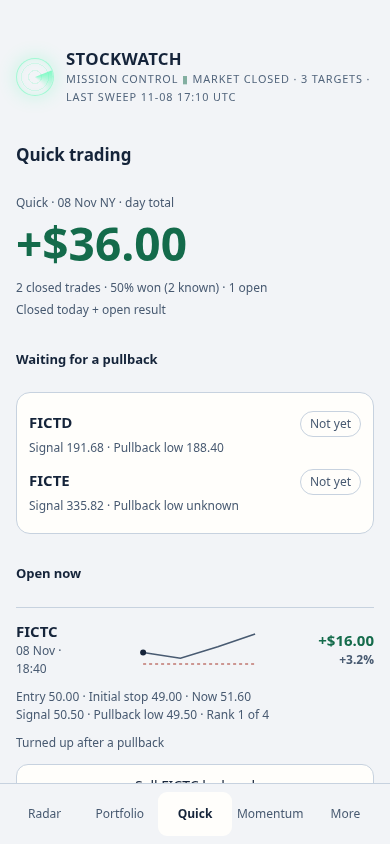
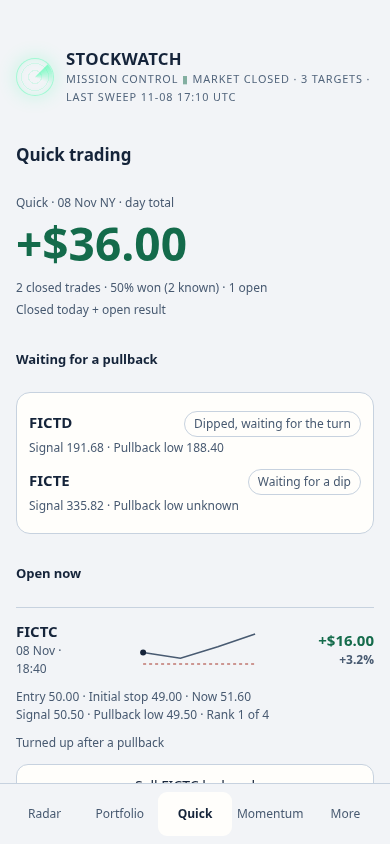
Describe actual saved pullback states on Quick watch pills

Changed region(s): [[0.4923, 0.4929, 0.8923, 0.5237], [0.6462, 0.5545, 0.8923, 0.5853], [0.0923, 0.0616, 0.1538, 0.1232]]

diff --git a/tests/test_tape_quick_momentum.py b/tests/test_tape_quick_momentum.py
@@ -50,12 +50,14 @@ def test_unknown_closed_result_or_date_and_no_measured_wins_remain_unknown():
     assert q.day_summary(quick.new_book(),{},NOW)['total']==0  # genuinely empty known account
 
 
-def test_pullback_low_does_not_invent_turning_confirmation_and_order_is_preserved():
+def test_saved_pullback_low_distinguishes_waiting_for_dip_from_waiting_for_turn():
     b=quick.new_book()
-    b['watch']={'FICTA':{'p0':100.,'pull_lo':98.},'FICTB':{'p0':20.,'pull_lo':None,'turning_up':True}}
+    b['watch']={'FICTA':{'p0':100.,'pull_lo':98.},'FICTB':{'p0':20.,'pull_lo':None}}
     h=q.html({'book':b},now=NOW)
     assert h.index('day total')<h.index('Waiting for a pullback')<h.index('Open now')<h.index('Closed</h3>')
-    assert 'Not yet' in h and 'Turning up' in h and 'Pullback low unknown' in h
+    assert 'Dipped, waiting for the turn' in h and 'Waiting for a dip' in h and 'Pullback low unknown' in h
+    assert h.index('FICTA')<h.index('Dipped, waiting for the turn')<h.index('FICTB')<h.index('Waiting for a dip')
+    assert 'Turning up' not in h and 'Not yet' not in h
     assert '<svg' not in h
 
 

diff --git a/stockwatch/quick_view.py b/stockwatch/quick_view.py
@@ -185,7 +185,8 @@ def parts(st: dict, prices: dict | None=None, now=None) -> tuple[str,list,str]:
     top+='<h3>Waiting for a pullback</h3><div class="tq-watch">'
     watch=book.get('watch') or {}
     for ticker,w in watch.items():
-        word='Turning up' if w.get('turning_up') is True else 'Not yet'
+        low=_num(w.get('pull_lo'))
+        word='Dipped, waiting for the turn' if low is not None and low>0 else 'Waiting for a dip'
         top+=(f'<div class="tq-w">{_link(ticker)}<span class="tq-pill">{word}</span>'
               f'<small>Signal {_price(w.get("p0"))} · Pullback low {_price(w.get("pull_lo"))}</small></div>')
     top+=('' if watch else '<small>No stocks waiting.</small>')+'</div><h3>Open now</h3></div>'

diff --git a/docs/screenshots/tape-quick/README.md b/docs/screenshots/tape-quick/README.md
@@ -6,7 +6,7 @@ Quick's big number uses the existing `quick.day_result` components: closed resul
 
 The two displayed SVGs use explicit handmade `[timestamp, price]` paths in the test inputs. The third trade has no path and renders no SVG. Production Quick currently saves no trade path, so current real trades intentionally render without a chart. No highs/lows or synthetic trajectories are inferred from a trade's entry/exit alone. Dots use actual saved event timestamps and levels; unavailable/out-of-window dots are omitted.
 
-Current `book['watch']` records contain signal/low data but no confirmed-turn flag. A recorded low alone is **Not yet**. The renderer supports **Turning up** only when an explicit `turning_up=True` is supplied; this change does not add such a signal to the account. The existing gate and entry timing are untouched. No new-high, resistance, or other chart explanation is invented for Momentum: its sentence uses the saved RSI/MACD changes, missed test or fading tag.
+The pullback pill uses the saved `pull_lo`: **Waiting for a dip** until a valid low is recorded, then **Dipped, waiting for the turn**. Recording a low does not claim a confirmed turn; no extra state field is required. The existing gate and entry timing are untouched. No new-high, resistance, or other chart explanation is invented for Momentum: its sentence uses the saved RSI/MACD changes, missed test or fading tag.
 
 The old RSI/MACD/price/direction numbers remain available under Measurements. Missing values show unknown. Main rows show the move and volume relative to normal activity at this time of day. All 14 supported routes were checked for horizontal overflow and app exceptions in both themes; the two changed pages additionally passed manual-sale Cancel, disclosure and watch-expander checks. Part 3 and the shared New call/Portfolio layouts are untouched.
 
